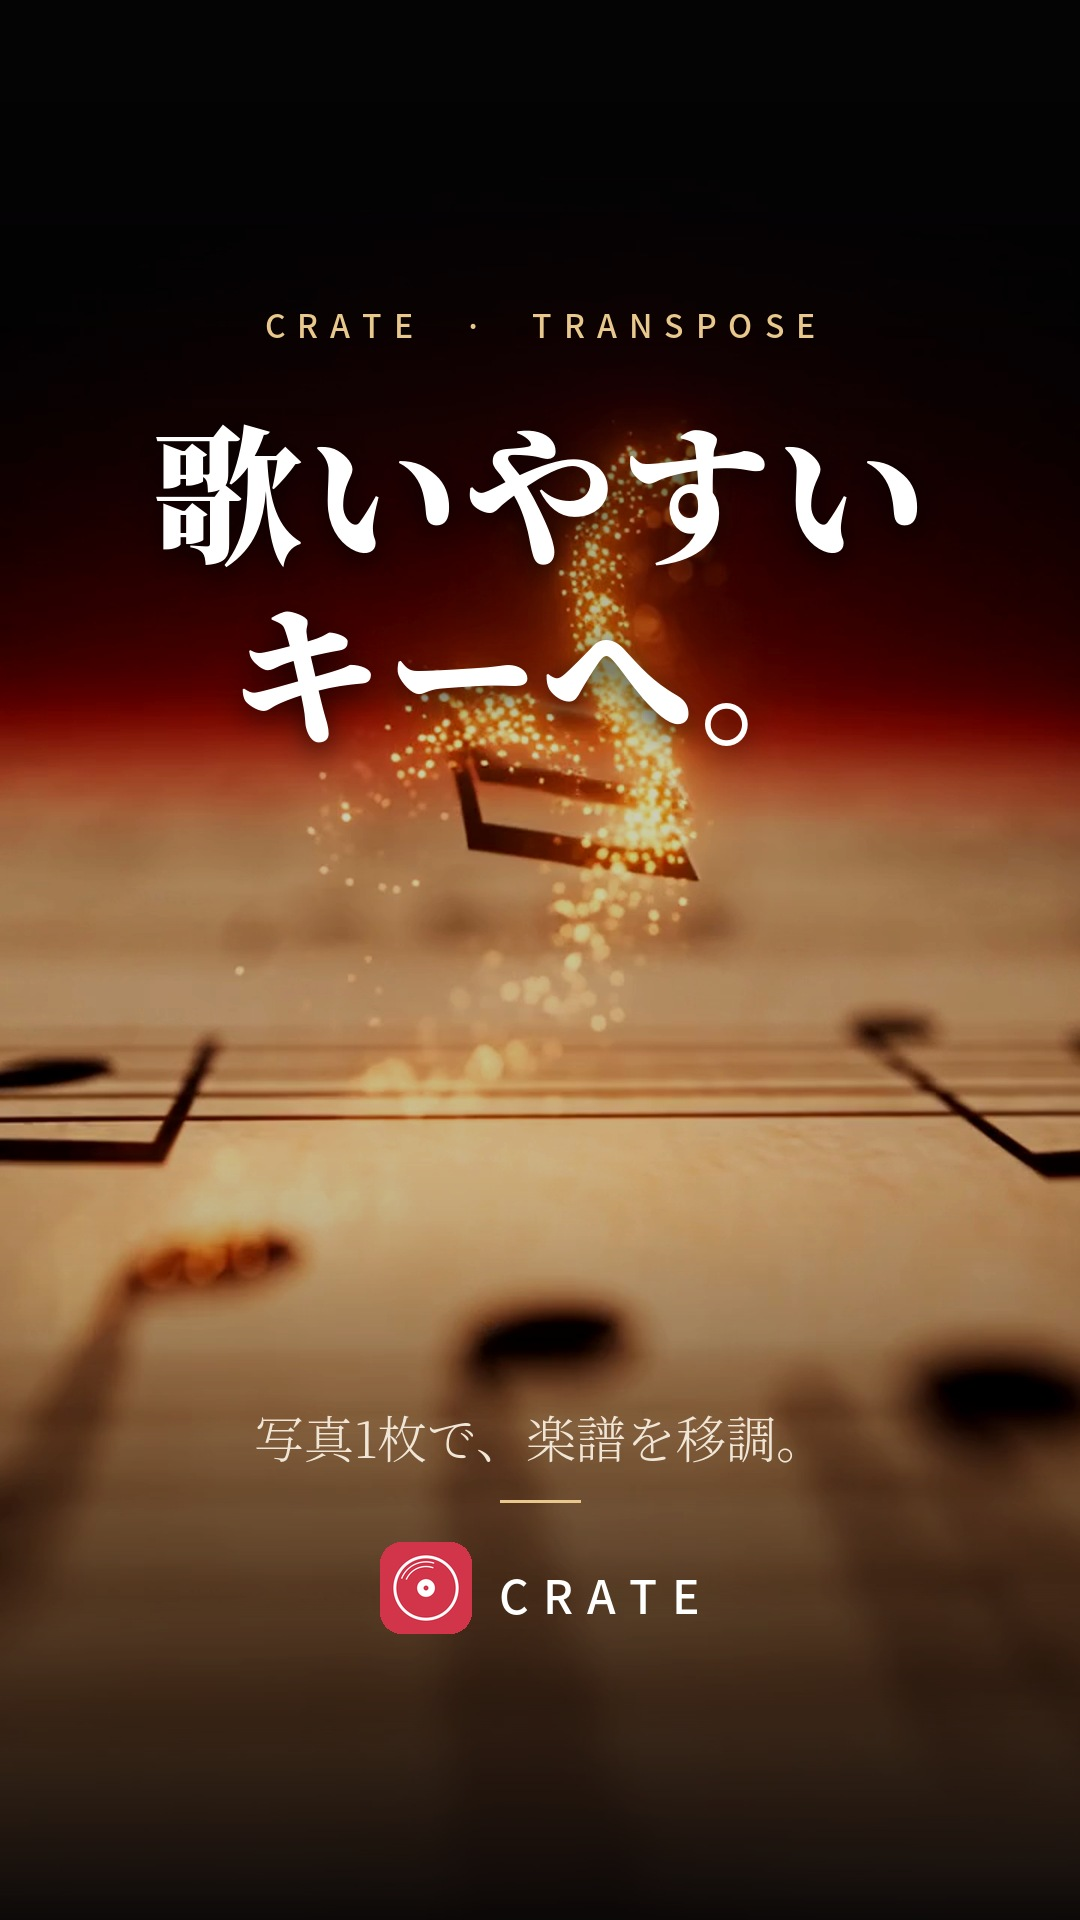
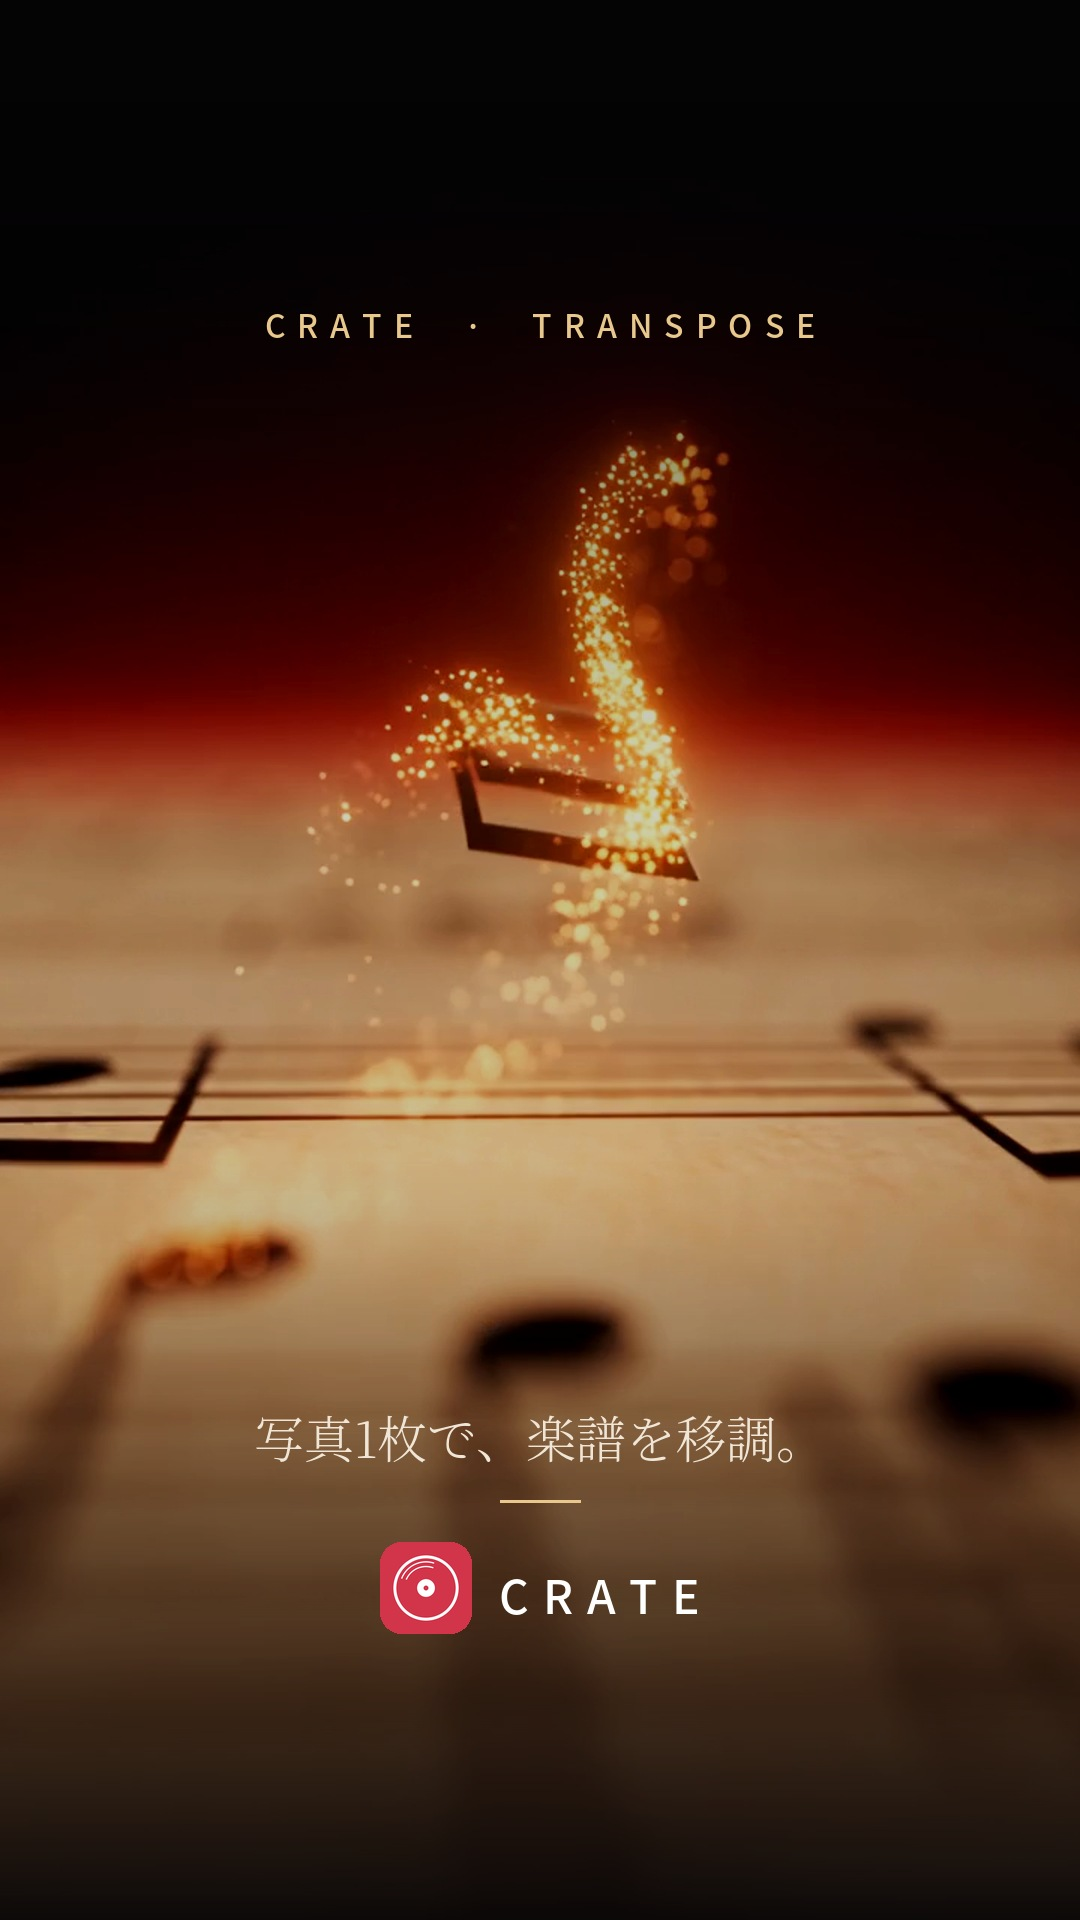
Reel 3 cover C: remove headline text
Claude-Session: https://claude.ai/code/session_0132XAgTJ8toTBqkVbeQ5Rt5

diff --git a/app/scripts/reel3cover.py b/app/scripts/reel3cover.py
@@ -113,11 +113,6 @@ def cover_c(bg):
     d = ImageDraw.Draw(im)
     ft = ImageFont.truetype(SANS_M, 32); t = "CRATE  ·  TRANSPOSE"
     sp(d, (W - sw(d, t, ft, 12)) / 2, 300, t, ft, GOLD, 12)
-    f = ImageFont.truetype(SERIF_B, 150)
-    def txt(dd, sc):
-        for s, y in (("歌いやすい", 380), ("キーへ。", 560)):
-            sp(dd, (W - sw(dd, s, f, 6)) / 2, y + (8 if sc else 0), s, f, sc or WHITE, 6)
-    shadow_text(im, txt)
     d = ImageDraw.Draw(im); fs = ImageFont.truetype(SERIF_L, 50)
     s = "写真1枚で、楽譜を移調。"
     d.text(((W - d.textlength(s, font=fs)) / 2, 1400), s, font=fs, fill=(240, 230, 215))
